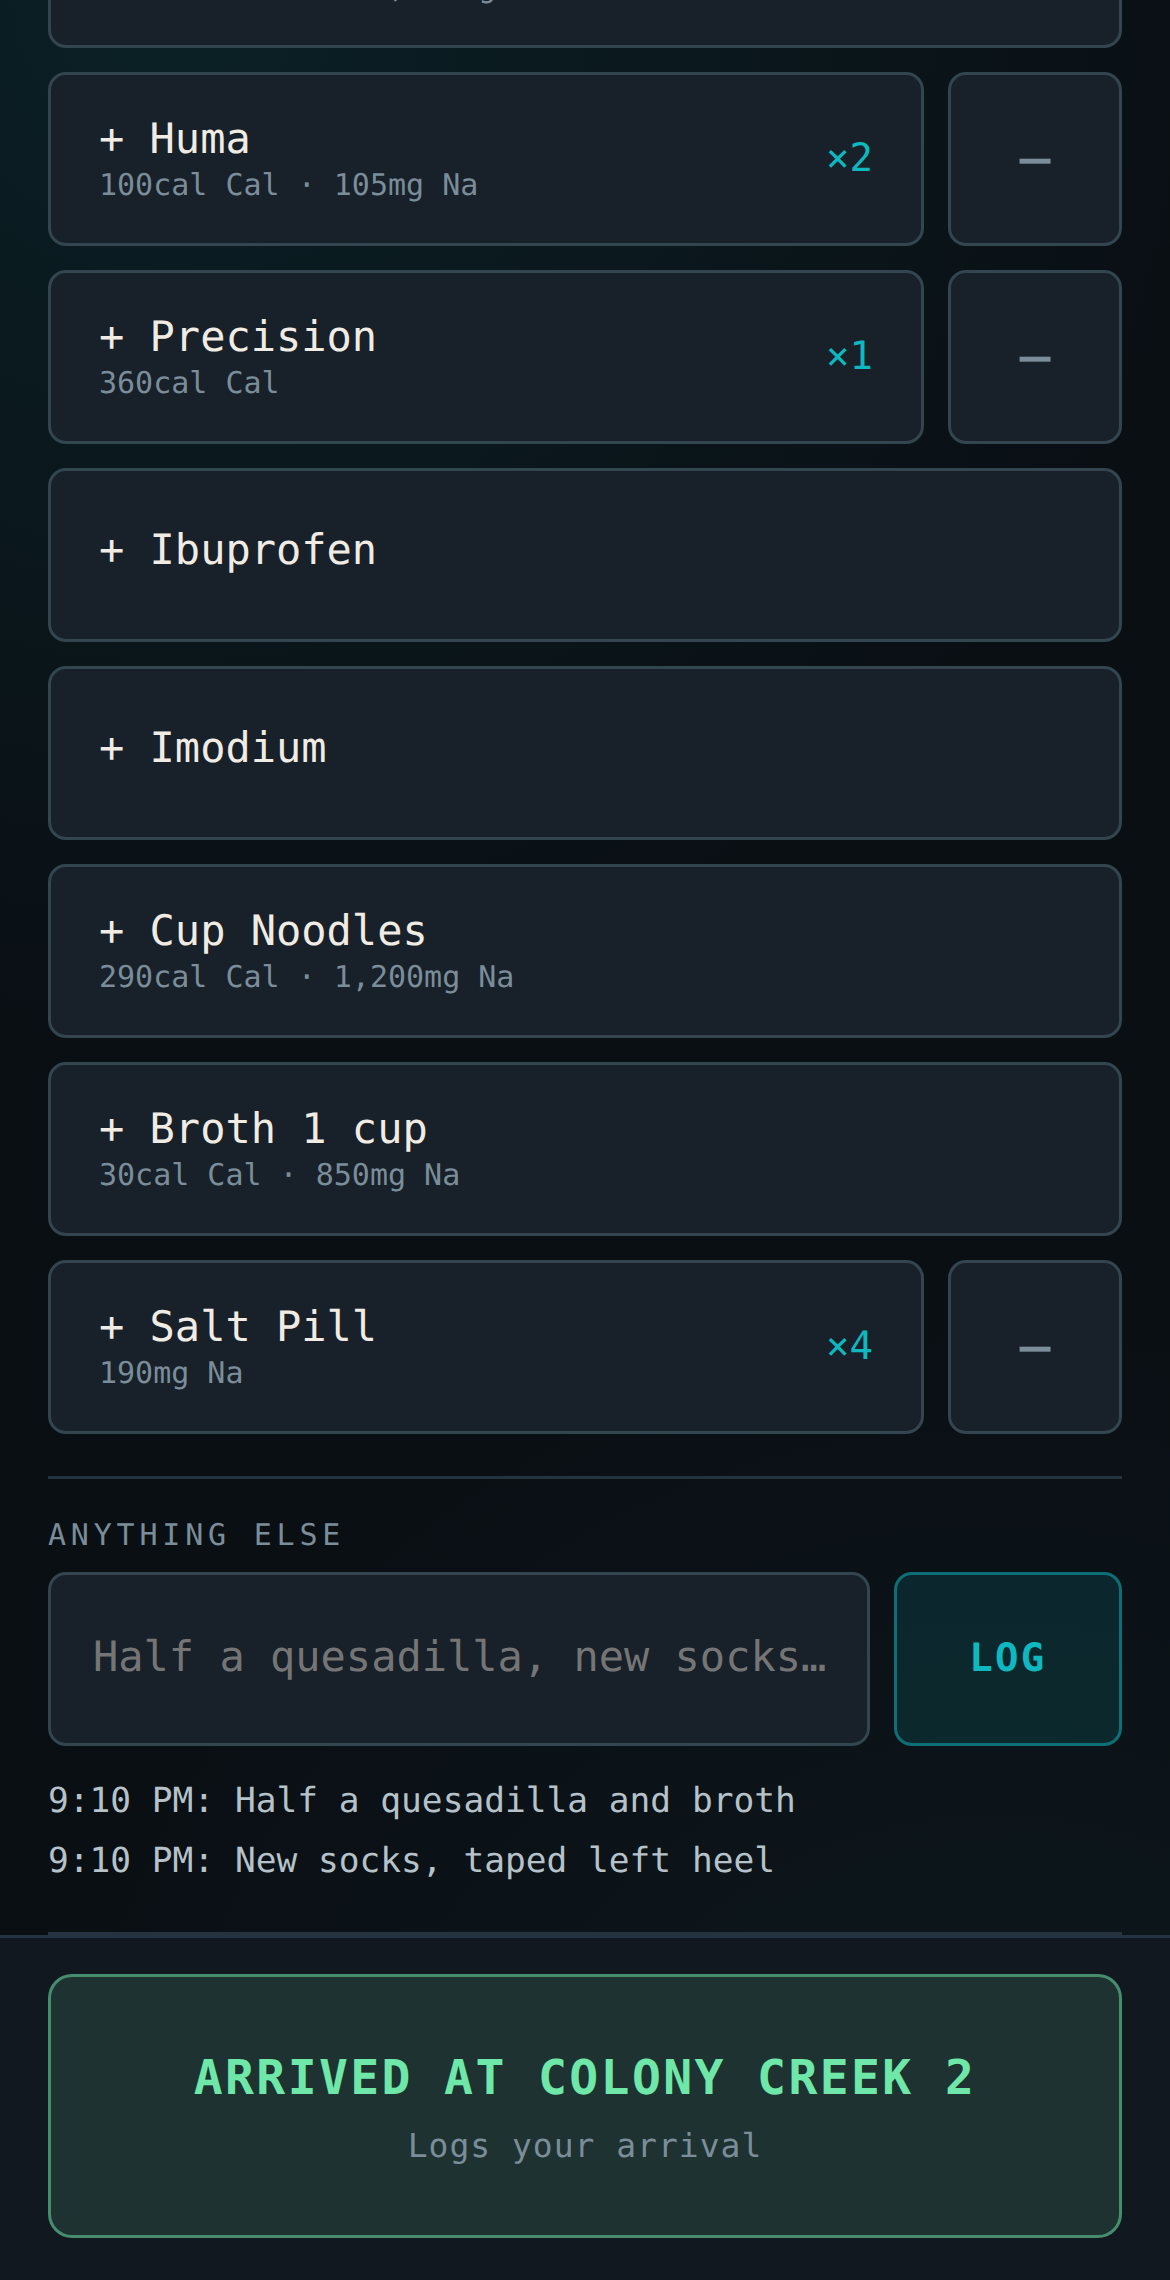
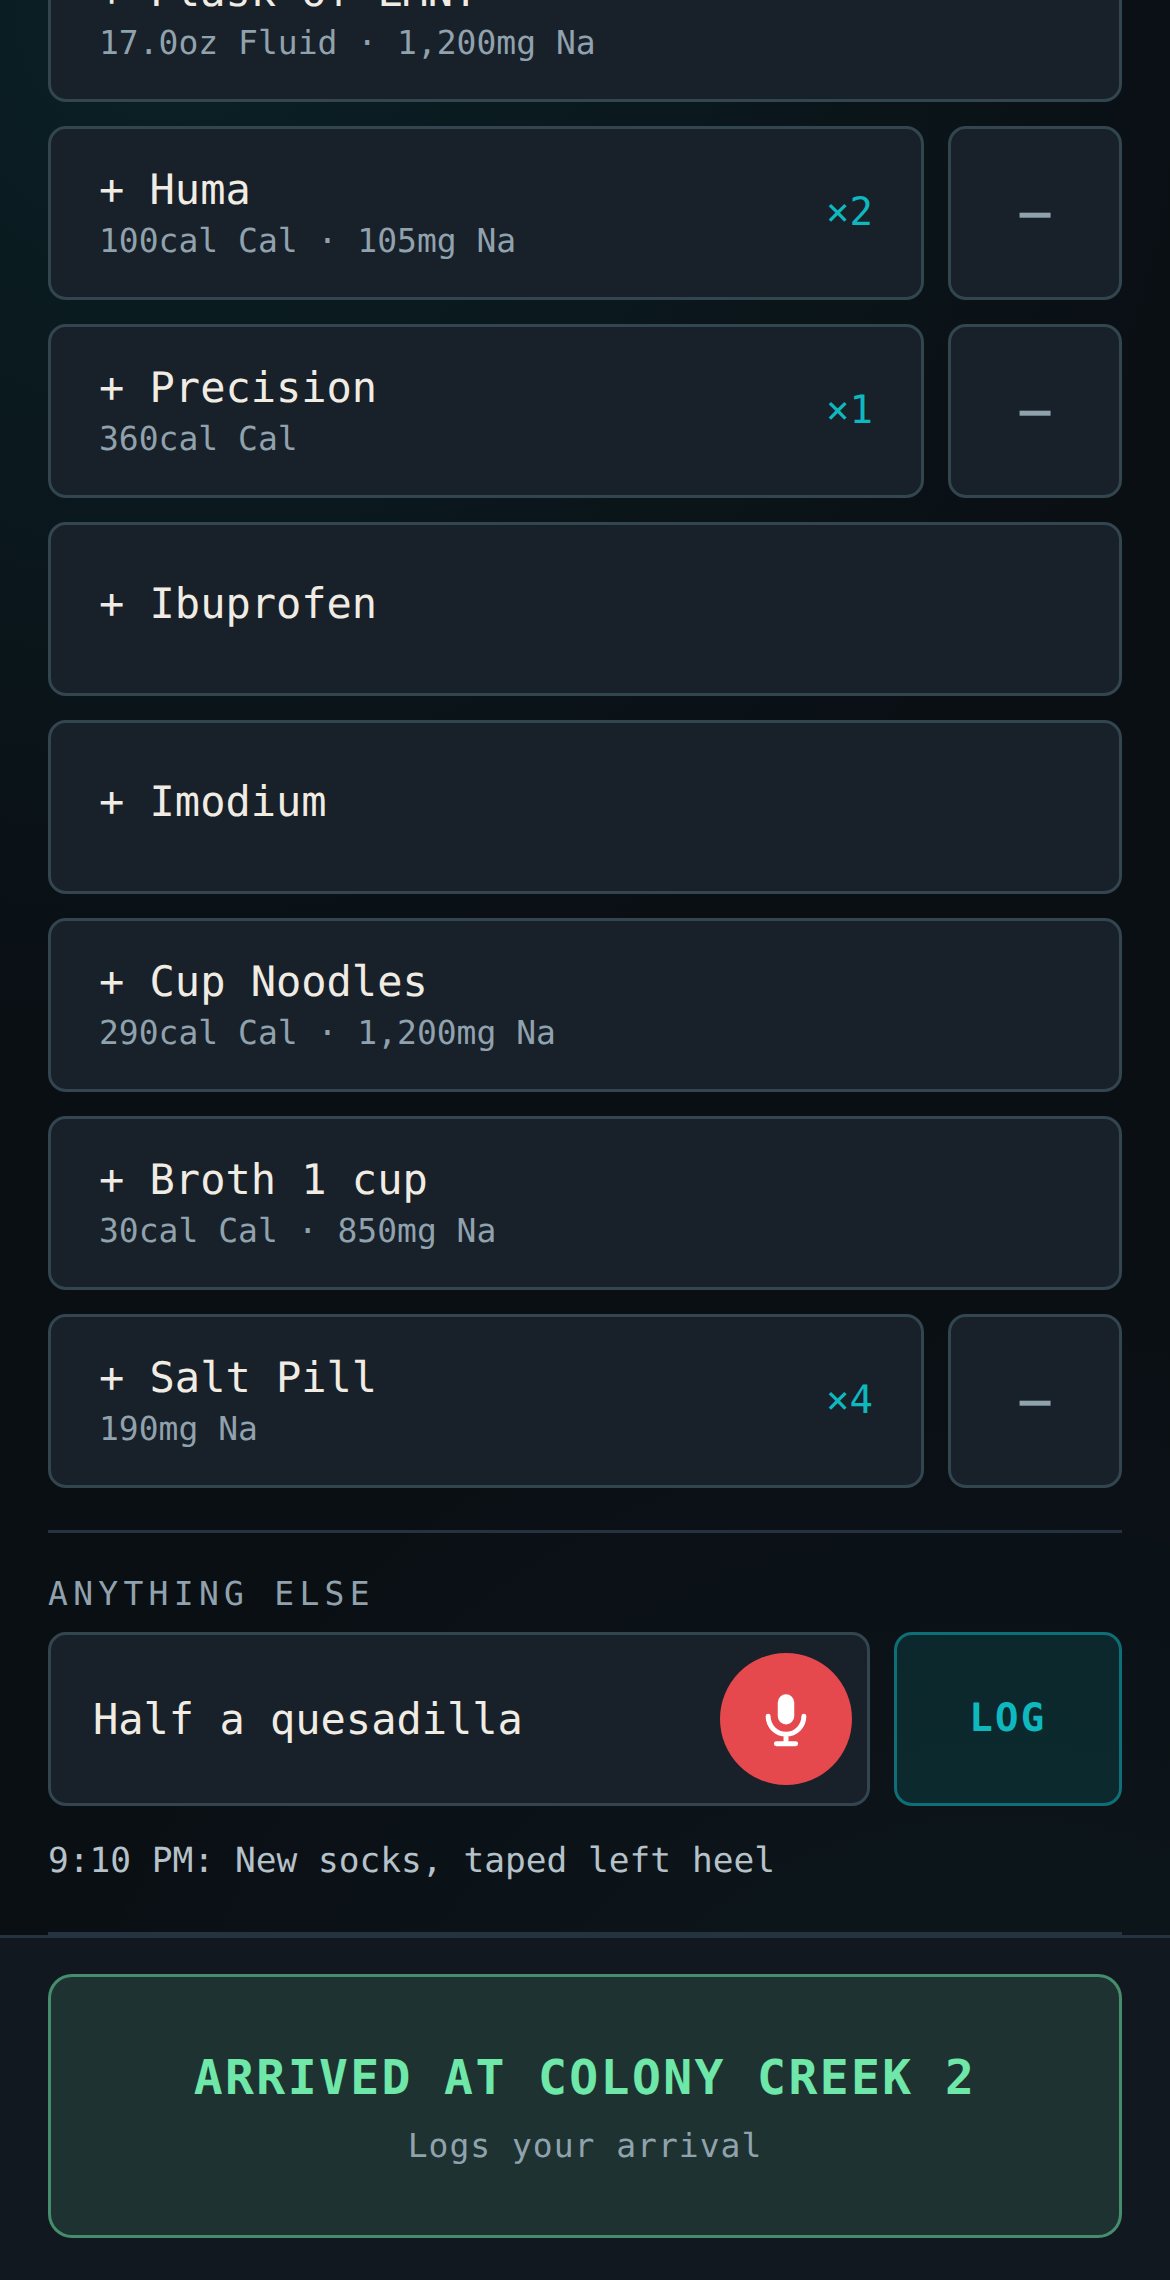
Write-in notes post: the mic on, the words landing in the box
The shot now shows a note being said rather than typed: one note typed and
logged, the next spoken, with the mic red and "Half a quesadilla" in the
box. The capture browser's own speech recogniser has no service behind it
and stops at once, so a stand-in hears the sentence and keeps listening.
The slide's lead and a chip, and the caption, say you can talk or type.

Claude-Session: https://claude.ai/code/session_01EWRjYYN5ZDLhgR1pme87tD

diff --git a/brand/social/features.html b/brand/social/features.html
@@ -222,8 +222,8 @@
     <div class="wm"></div>
     <p class="kick">Write-in notes</p>
     <h1>Quesadilla<br>at <em>mile 60?</em></h1>
-    <p class="lead" style="max-width:21ch">For everything that is not a button: aid station food, gear changes, hot spots. Type it, log it, keep moving.</p>
-    <div class="chips"><span class="chip">Food</span><span class="chip">Gear</span><span class="chip">Anything</span></div>
+    <p class="lead" style="max-width:21ch">For everything that is not a button: aid station food, gear changes, hot spots. Say it or type it, then go.</p>
+    <div class="chips"><span class="chip">Food</span><span class="chip">Gear</span><span class="chip">Talk or type</span></div>
   </div>
   <div class="phone"><img src="shots/racer-jot.png" alt=""></div>
   <div class="foot">sendoff.run</div>

diff --git a/brand/social/captions.md b/brand/social/captions.md
@@ -125,7 +125,7 @@ Made after racing Sangre de Cristo 100 self-crewed.
 
 Quesadilla at mile 60? 🌮
 
-Aid stations never have what you planned for. The write-in box handles everything that isn't a button: what you ate, a sock change, taped a hot spot. Type it, hit Log, keep moving.
+Aid stations never have what you planned for. The write-in box handles everything that isn't a button: what you ate, a sock change, taped a hot spot. Tap the mic and say it, or type it, then hit Log and keep moving.
 
 #ultrarunning #aidstationfood #trailrunning #selfsupported #100miler #sendoff
 
